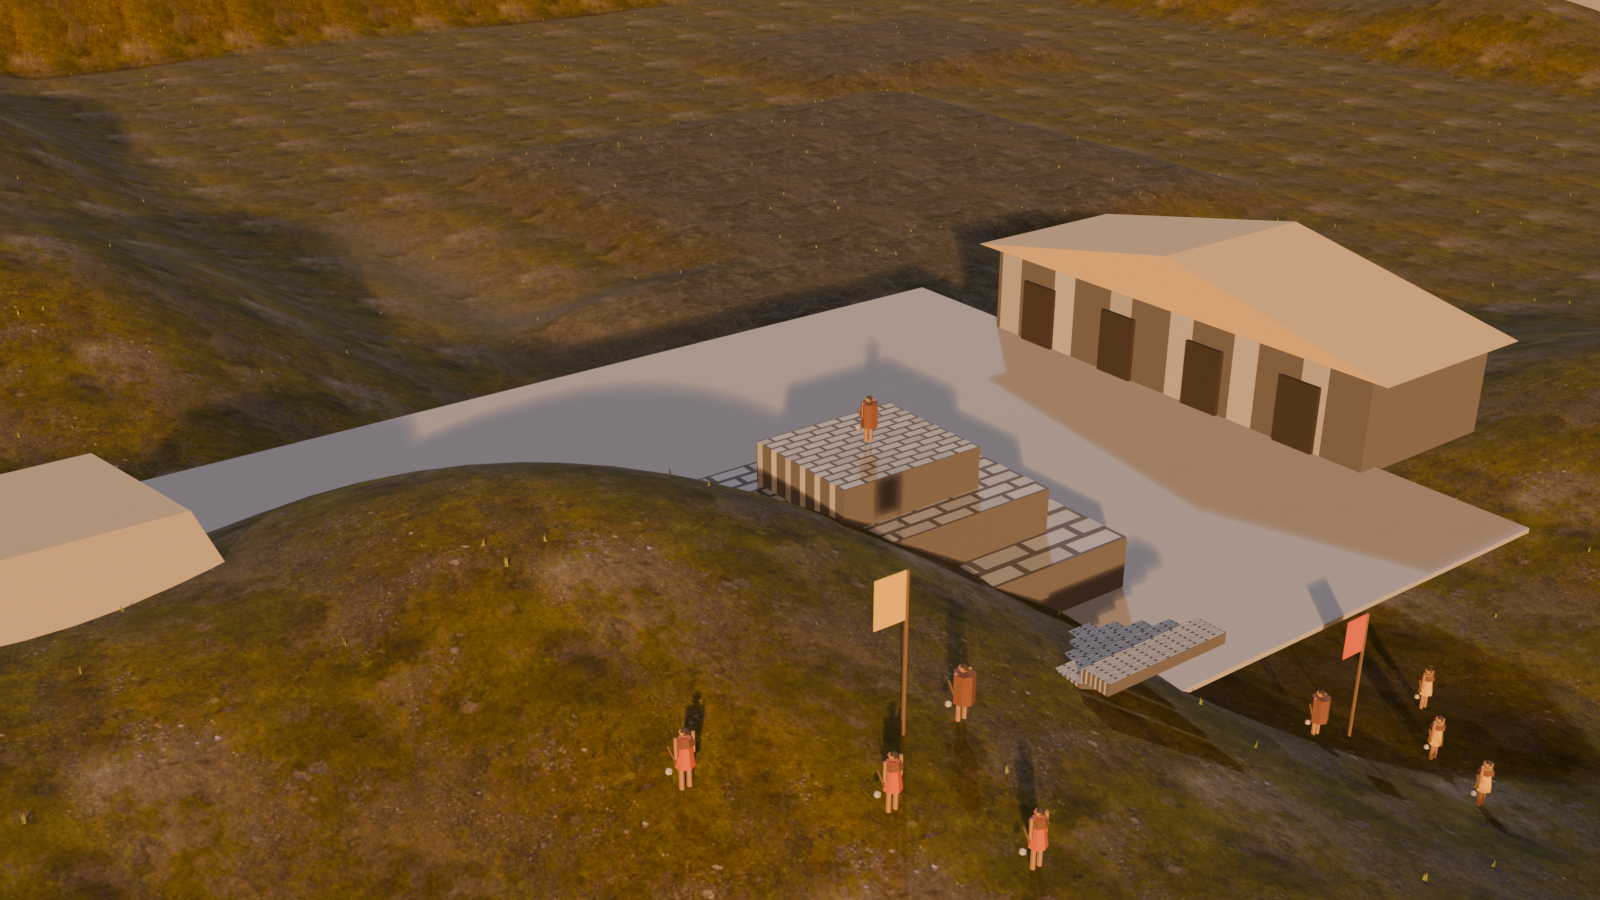
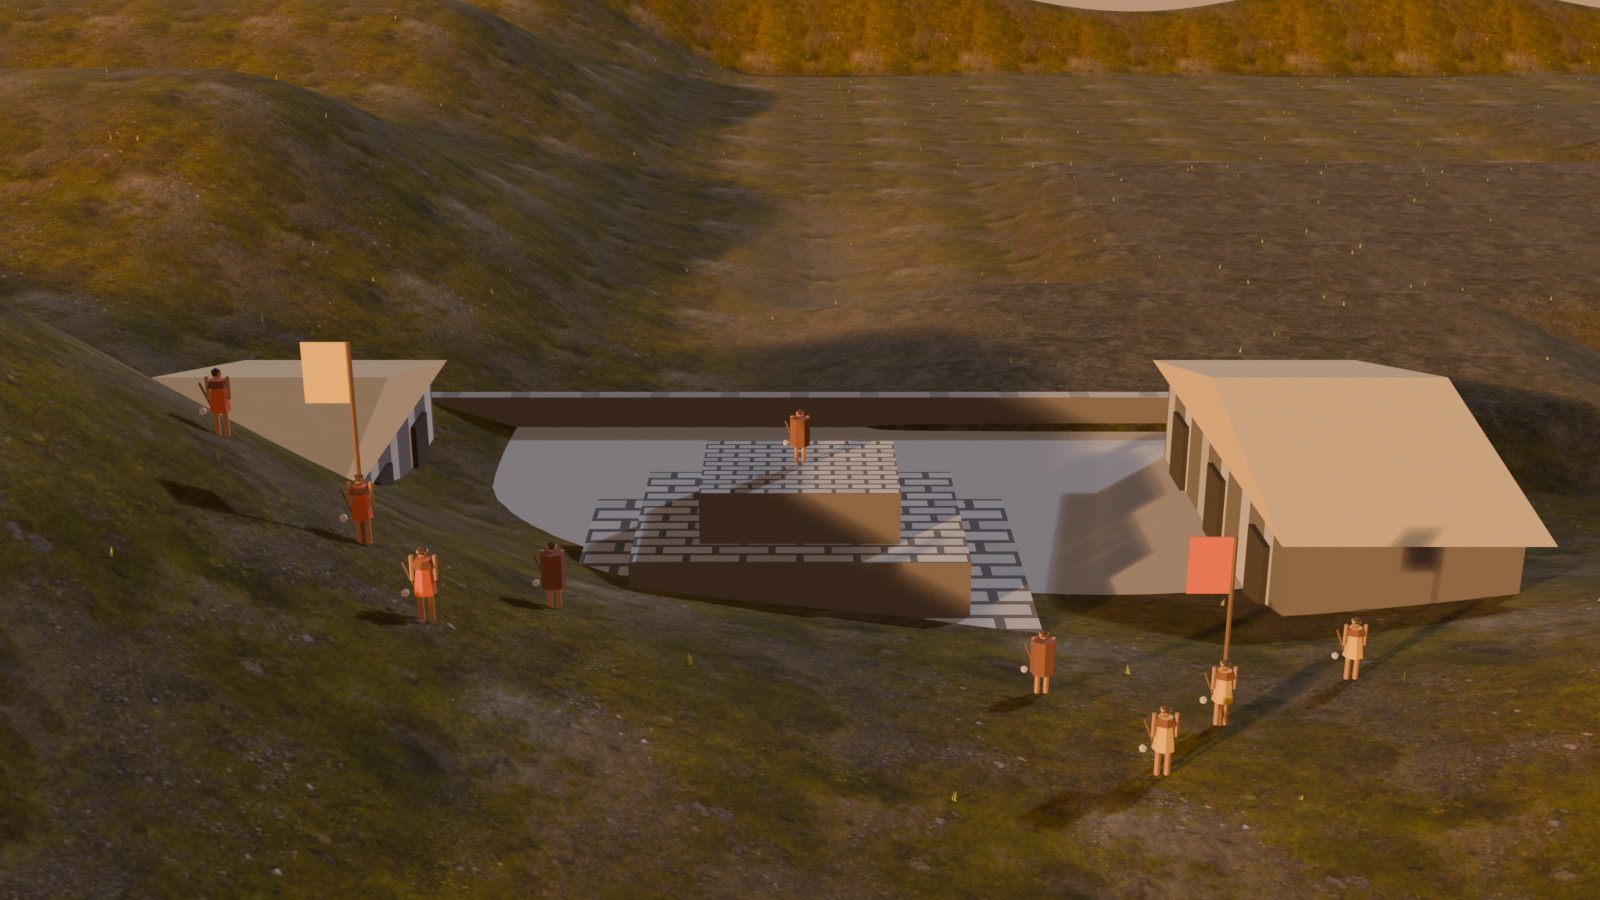
art(m6b): move the civil-war plaza to the valley and refresh the draft

diff --git a/scripts/blender/build_site_intro.py b/scripts/blender/build_site_intro.py
@@ -105,12 +105,12 @@ CONFIG = {
     },
     'm6b_guerra_civil': {
         'hm': 'cusco',
-        'site': (166.0, 174.0),
+        'site': (150.0, 160.0),
         'scale': 1.0,
         'bespoke': 'cusco',
-        'camera': (200.0, 222.0, 24.0),
-        'target': (166.0, 176.0, 3.0),
-        'lens': 38,
+        'camera': (150.0, 218.0, 18.0),
+        'target': (150.0, 160.0, 4.0),
+        'lens': 40,
         'sun': (-0.35, -0.5, -0.30),
         'sun_color': (1.0, 0.84, 0.62),
         'sky': (0.34, 0.45, 0.62),
@@ -865,14 +865,16 @@ def add_chimu_scene():
 
 
 def add_cusco_scene():
-    sx, sz = 166.0, 174.0
+    sx, sz = 150.0, 160.0
     cy = ground_height(sx, sz)
     stone = material('cusco_stone', (0.40, 0.38, 0.34), 0.95, 0.3)
     reset_masonry(stone, (0.40, 0.38, 0.34))
     floor = material('cusco_floor', (0.36, 0.33, 0.29), 0.98, 0.2)
     thatch = material('cusco_thatch', (0.52, 0.38, 0.20), 0.98, 0.2)
     dark = material('cusco_dark', (0.05, 0.04, 0.03), 1.0, 0.0)
-    add_box('cusco_plaza', (sx, sz, cy + 0.1), (46.0, 36.0, 0.2), floor)
+    add_box('cusco_plaza', (sx, sz, cy + 0.55), (34.0, 26.0, 0.3), floor)
+    for wx, wz, ww, wd in ((sx, sz + 13.2, 35.0, 0.8), (sx, sz - 13.2, 35.0, 0.8), (sx - 17.2, sz, 0.8, 27.0), (sx + 17.2, sz, 0.8, 27.0)):
+        add_box('cusco_wall', (wx, wz, cy + 1.0), (ww, wd, 2.0), stone)
     # Ushnu: the stepped ceremonial platform.
     add_box('ushnu_1', (sx, sz + 6, cy + 1.1), (14.0, 12.0, 2.2), stone)
     add_box('ushnu_2', (sx, sz + 6, cy + 3.0), (10.0, 8.0, 1.8), stone)
@@ -881,11 +883,11 @@ def add_cusco_scene():
         add_box('ushnu_step', (sx, sz + 13 + i * 1.1, cy + 0.2 + i * 0.55), (5.0, 1.1, 0.4), stone)
     # Kallankas: long halls with thatch roofs on both sides of the plaza.
     for side in (-1, 1):
-        x = sx + side * 26
-        add_box('kallanka', (x, sz, cy + 2.2), (8.0, 22.0, 4.4), stone)
-        gable_roof('kallanka_roof', x, sz, cy + 4.4, 9.0, 24.0, 2.4, thatch)
-        for i in range(4):
-            add_box('kallanka_door', (x - side * 4.1, sz - 8 + i * 5.2, cy + 1.6), (0.2, 2.0, 3.2), dark)
+        x = sx + side * 18
+        add_box('kallanka', (x, sz, cy + 2.2), (7.0, 18.0, 4.4), stone)
+        gable_roof('kallanka_roof', x, sz, cy + 4.4, 8.0, 20.0, 2.2, thatch)
+        for i in range(3):
+            add_box('kallanka_door', (x - side * 3.6, sz - 6 + i * 6.0, cy + 1.6), (0.2, 2.0, 3.2), dark)
     # Banners of the two factions.
     for x, z, color in ((sx - 10, sz + 20, (0.55, 0.12, 0.08)), (sx + 10, sz + 20, (0.62, 0.42, 0.12))):
         y = ground_height(x, z)
@@ -894,9 +896,9 @@ def add_cusco_scene():
     # Atahualpa's army (south-east) and Huáscar's (north-west).
     atahualpa = material('cusco_atahualpa', (0.46, 0.12, 0.07), 0.92, 0.05)
     huascar = material('cusco_huascar', (0.55, 0.34, 0.10), 0.92, 0.05)
-    for i, (x, z) in enumerate(((sx + 8, sz + 20), (sx + 12, sz + 22), (sx + 16, sz + 19), (sx + 10, sz + 25))):
+    for i, (x, z) in enumerate(((sx + 6, sz + 18), (sx + 10, sz + 20), (sx + 14, sz + 17), (sx + 8, sz + 23))):
         add_warrior((x, z, ground_height(x, z)), math.radians(0), cloth=atahualpa, leader=i == 0)
-    for i, (x, z) in enumerate(((sx - 8, sz + 20), (sx - 12, sz + 22), (sx - 16, sz + 19), (sx - 10, sz + 25))):
+    for i, (x, z) in enumerate(((sx - 6, sz + 18), (sx - 10, sz + 20), (sx - 14, sz + 17), (sx - 8, sz + 23))):
         add_warrior((x, z, ground_height(x, z)), math.radians(0), cloth=huascar, leader=i == 0)
     # A few figures on the ushnu.
     add_warrior((sx, sz + 6, cy + 5.6), math.radians(180), cloth=atahualpa, leader=True)
